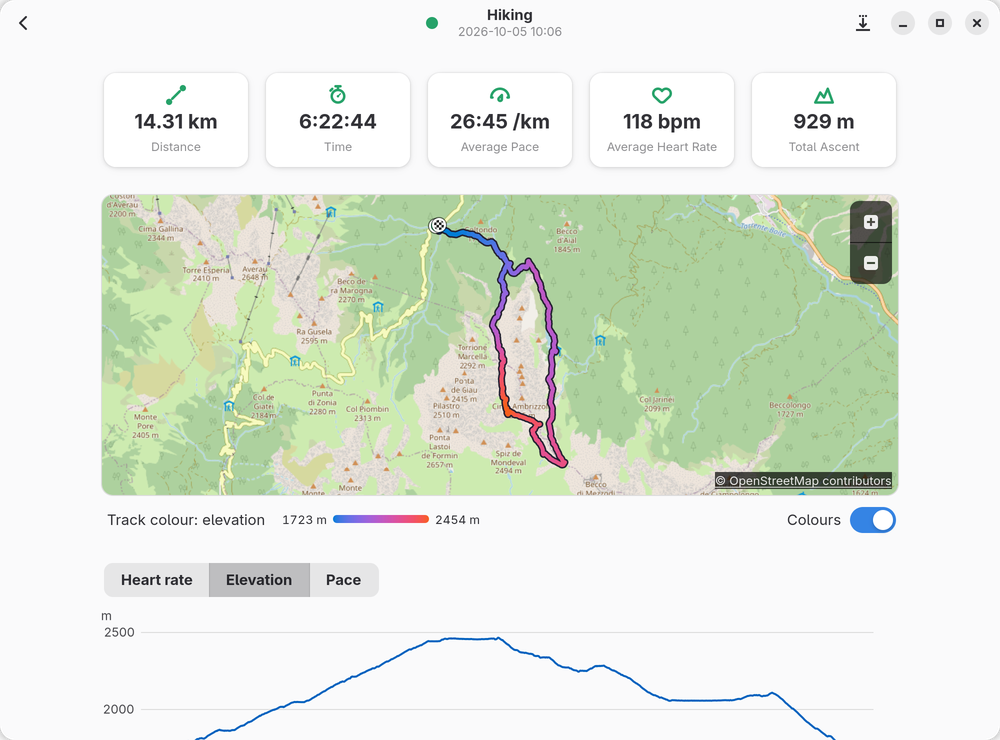
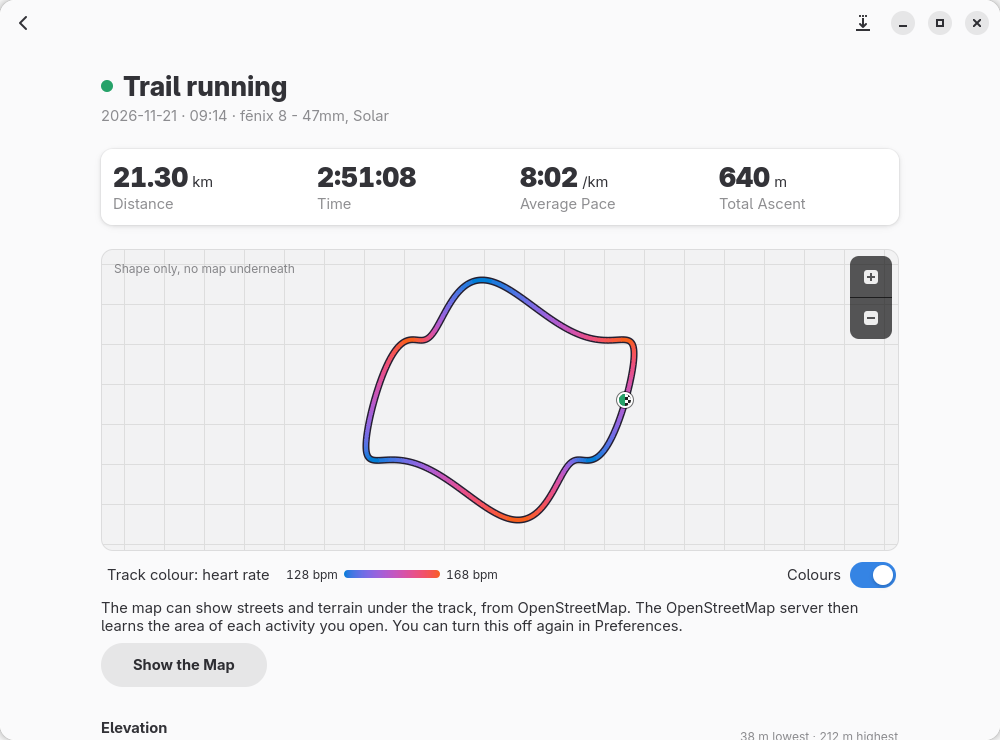
Docs: the activity journal, what is new and the page of an activity in its new look
The guide's chapter Activities is written anew: the card that asks for the activity journal and
what its yes and its no do, the page of what is new and its tiles, Show All and the list, the
page of an activity from top to bottom in the units of its device, the page of an activity whose
file is gone, the switch and Delete in Preferences, and the commands of the journal. The privacy
page says that only the journal reads at each connection and keeps a summary on disk, and that
its lines of connections hold a short digest; the README lists the journal and what is new; the
design of the activity's page has its present order (D22, 22c). The pictures of the Activities
page and of an activity are drawn by the program from made-up activities, the track on a plain
grid.

diff --git a/docs/guide.md b/docs/guide.md
@@ -445,44 +445,101 @@ fēnix 8.
 
 ## Activities
 
-The Activities page and `openexpress activities` list the activities of the connected device,
+The Activities page and `openexpress activities` show the activities of the connected device,
 over MTP or as a USB drive, and of its backups (`Garmin/Backups` in your Documents folder, or
-`--backups DIR`): the newest 30 first, then 30 more with **Show 30 More** (`--limit N`,
-`--all`). Each has its sport, start, time (pauses left out), distance, ascent and where it was
-read: the device, or the backup of a date for one the device no longer has. The page reads the
-files when you open it, never when a device connects. A file the device was still writing
-when it was connected says so (unplug the device and plug it in again, then open the page again),
-as do a damaged file and a file that is no FIT file.
+`--backups DIR`).
 
-A click on an activity (or Enter) opens its page, which reads its file again:
+### The activity journal
 
-- On top: its distance, time, pace or speed, average heart rate and ascent (a workout without a
-  distance: its time, average and maximum heart rate, calories and ascent), each only when the
-  file gives it.
+The first time you open the Activities page, a card asks **Keep an Activity Journal?**
+
+- **Keep a Journal** is your yes: openExpress reads the activity files of the device once
+  (*Reading the activities of this device…*) and keeps a summary and the shape of each on this
+  computer. From then on it adds the new ones whenever the device is opened in the window, after
+  a background sync and after `openexpress sync --apply`. Nothing is sent anywhere. What the
+  journal holds, and what it never holds: [The activity journal](privacy.md#the-activity-journal).
+- **Not Now**, and every visit before you answer: nothing is read or written for a journal, and
+  the page lists the activities as before (below). After **Not Now** a line at the bottom of
+  the page says what a journal shows, with a button to Preferences.
+
+In Preferences → **Activity Journal**, **Keep an Activity Journal** turns it on or off (off keeps
+what it holds) and **Delete the Activity Journal** deletes the journal of every device, after
+asking. **Forget Device** deletes the journal of that device. No journal is kept for a device on
+another Garmin Connect account than the one signed in; the page says so at its bottom. On the
+command line: `openexpress setup --activity-journal on` (or `off`), and `openexpress activities
+journal`, which tells how many activities the journal of the connected device holds, since when,
+its gaps and its size (`--all`: of every device; `--delete --apply` deletes it).
+
+### What is new
+
+With the journal kept, the page shows what is new since the device's connection before this
+one:
+
+- on top how many new activities and since when (*Since yesterday*, a day's name, a date), and
+  when the last sync uploaded to Garmin Connect, if it did after that connection;
+- their distance, time, ascent and number in a card, and, when they climbed or went far enough,
+  a comparison with a landmark (*That is the Eiffel Tower 2.1 times.*);
+- a tile for each of the newest six: the shape of its track in the colour of its sport (or its
+  sport's symbol), its numbers, *Uploaded* or *Not uploaded yet* as this computer's syncs know
+  it, and its day. With nothing new, the newest three under **Latest**;
+- at the bottom how many earlier activities the device holds, and **Show All**, the list below.
+
+The first time, the page says *Activity journal started* and how many activities were read, from
+which date. When older activities left the device before the journal could read them, it says
+that too.
+
+### The list
+
+**Show All**, and the page without a journal, list the activities: the newest 30 first, then 30
+more with **Show 30 More** (`--limit N`, `--all`). Each has its sport, start, time (pauses left
+out), distance, ascent and where it was read: the device, or the backup of a date for one the
+device no longer has. The list reads the files when you open it. A file the device was still
+writing when it was connected says so (unplug the device and plug it in again, then open the page
+again), as do a damaged file and a file that is no FIT file.
+
+### The page of an activity
+
+A tile or a row (a click, or Enter) opens the page of the activity, read from its file:
+
+- On top its kind (with its sub sport, such as *Trail running*), when it started and on which
+  device, and its numbers in a card: distance, time, pace or speed and ascent; a workout without
+  a distance: its time, calories, rest time and ascent. Each only when the file gives it.
 - An activity with positions has a map of its track, its start and finish marked, the track
   coloured by what the chart shows: from blue (low, or a slow pace) to red (high, or a fast
-  pace), with the legend and the **Colours** switch under the map. Streets and terrain come
-  from OpenStreetMap only once you turn them on, with **Show the Map** or in Preferences →
-  **Activity Maps** ([Activity maps from OpenStreetMap](privacy.md#activity-maps-from-openstreetmap)); until then the
-  track is drawn on a plain background. Ctrl + scroll or the buttons on the map zoom it.
-- The chart shows heart rate, elevation and pace or speed, one at a time, and the place of its
-  cursor is marked on the map.
-- The laps (the device's, or each kilometre when the device kept no laps): choose one to see it
+  pace), with the legend and the **Colours** switch under the map. Streets and terrain come from
+  OpenStreetMap only once you turn them on, with **Show the Map** or in Preferences → **Activity
+  Maps** ([Activity maps from OpenStreetMap](privacy.md#activity-maps-from-openstreetmap)); until
+  then the track is drawn on a plain grid. Ctrl + scroll or the buttons on the map zoom it.
+- Its elevation: the lowest and the highest point, and its profile along the distance.
+- Its heart rate: the average and the highest, and the zones as the device worked them out, a bar
+  of the share of each and a row for each with its bounds, time and share. When the whole time
+  was below zone 1, one sentence says so instead.
+- The chart shows heart rate, elevation and pace or speed, one at a time; behind the heart rate,
+  the bands of the zones, each named when it is tall enough. The place of its cursor is marked
+  on the map.
+- The laps: the device's or, when it kept none and the activity is at least two kilometres
+  long, each kilometre (each mile from two miles, on a device set to miles). Choose one to see it
   on the map and on the chart.
-- The heart rate zones as the device worked them out, with the time in each; the training
-  effect and training load.
-- In a row that opens, the details: elapsed and moving time, descent, elevation, best pace,
-  cadence, steps, heart rate, temperature and more, only those the file gives.
+- The training effect and training load, then, in a row that opens, the details: elapsed and
+  moving time, descent, elevation, best pace, cadence, steps, temperature and more, only those
+  the file gives.
 
-The moving time, the average moving pace, the temperatures with their decimal, the rest time of
-a strength workout and the kilometres of an activity without the device's own laps are worked
-out by openExpress from what the device recorded, so they may differ slightly from Garmin
-Connect's; the other values come from the summary the device wrote into its file.
+The page is in the units the device shows: kilometres or miles, metres or feet. The moving time,
+the average moving pace, the temperatures with their decimal, the rest time of a strength workout
+and the kilometres or miles of an activity without the device's own laps are worked out by
+openExpress from what the device recorded, so they may differ slightly from Garmin Connect's; the
+other values come from the summary the device wrote into its file.
 
 <p align="center">
   <img src="screenshots/activity.png" width="800"
-       alt="The page of a hike: its summary, its track on a map coloured by elevation and its elevation profile">
+       alt="The page of a made-up trail run: its kind, date and device, its distance, time, pace and ascent, and its track on a plain grid coloured by heart rate">
 </p>
+
+When the file of an activity is no longer on the device or in its backups, its tile opens what
+the journal kept, and a line on the page says so: its numbers, the shape of its track on a plain
+grid in the colour of its sport, its start marked, its elevation profile, and its heart rate with
+the share of each zone (the journal keeps no bounds of the zones). Without the file there is no
+map, chart, laps, details or GPX.
 
 The export button of an activity, or `openexpress activities export NAME… --apply`, writes it
 as a GPX 1.1 file named `YYYY-MM-DD HH.MM Sport.gpx`: each point with its position, elevation
@@ -496,9 +553,9 @@ manufacturer, product and creation time, its messages and whether it is whole. T
 of a fēnix 8.
 
 <p align="center">
-  <img src="screenshots/activities.png" width="700" alt="Activities">
+  <img src="screenshots/activities.png" width="700"
+       alt="The Activities page of a made-up watch with its journal kept: what is new since the connection before this one, its numbers and a tile for each new activity">
 </p>
-
 ## Device Status
 
 The Device Status page, last in the side panel, tells what needs attention on the connected

diff --git a/docs/design/podglad-aktywnosci.md b/docs/design/podglad-aktywnosci.md
@@ -135,31 +135,37 @@ where the user lives. Without the map, the program sends nothing about activitie
 
 ## 4. The look and the flow
 
-The page, from top to bottom (D22): the header bar (back, a dot of the sport's colour before the
-title, GPX), the tiles with their icons, the map with its legend under it (with positions), the
-chart, the laps (or kilometres), the heart rate zones, the training effect and load, the
-details (closed). Each part only when the file has its data; a section without data is not
-shown, not empty.
+The page, from top to bottom (D22): the header bar (back, GPX), the heading (a dot of the sport's
+colour, the kind with its sub sport, when it started and on which device), the card of its
+numbers, the map with its legend under it (with positions), the elevation, the heart rate zones,
+the chart, the laps (or kilometres), the training effect and load, the details (closed). Each
+part only when the file has its data; a section without data is not shown, not empty. All of it
+is in the units the device shows.
 
 ```
- ← ● Walk · Sat 7 Mar, 10:12                                [GPX]
- ┌ ⌖ 3.25 km ┐ ┌ ◷ 40:00 ┐ ┌ ◔ 12:17 /km ┐ ┌ ♥ 108 bpm ┐ ┌ ˄ 12 m ┐
+ ←                                                          [GPX]
+ ● Trail running
+   2026-11-21 · 09:14 · fēnix 8
+ ┌ 21.30 km      2:51:08      8:02 /km      640 m ┐
  ┌───────────────────────────────────────── [+] ┐
  │ the track coloured by heart rate, a lap      │
  │ chosen: thick, the rest thin and faded  [−]  │
  │                © OpenStreetMap contributors  │
  └──────────────────────────────────────────────┘
  Track colour: heart rate  94 ▬▬▬▬▬ 118 bpm        Colours [on]
+ Elevation                           38 m lowest · 212 m highest
+ ┌ the profile along the distance ┐
+ Heart Rate Zones                   148 bpm average · 176 bpm highest
+   Bounds from the device: % of lactate threshold (… bpm)
+   ▬▬▬▬ the share of each zone in its colour ▬▬▬▬
+   Zone 5  above … bpm                              0:00 · 0%
+   …
+   Below Zone 1  below … bpm                      38:24 · 96%
  [ Heart rate | Elevation | Pace ]          15:00 · 101 bpm
- ┌ the chart, the chosen lap a band behind it ┐
+ ┌ the chart, the bands of the zones named, the chosen lap a band behind it ┐
  Laps
    Lap 1   1.00 km · 12:42 · 110 bpm
    Lap 2   1.00 km · 12:20 · 101 bpm                     ✓
- Heart Rate Zones        Bounds from the device: % of lactate threshold (… bpm)
-   Zone 5  above … bpm                              0:00 · 0%
-   ▬▬▬▬▬▬▬▬▬▬▬▬▬▬▬▬▬▬▬▬▬▬▬▬▬▬▬▬▬▬▬▬▬▬▬▬▬▬▬
-   …
-   Below Zone 1  below … bpm                      38:24 · 96%
  Training Effect
    Aerobic                                  1.6 · Minor benefit
    Anaerobic                                    0.0 · No benefit
@@ -167,25 +173,26 @@ shown, not empty.
  Details ▾
 ```
 
-- A click on a row of the Activities page opens the activity in the same window, a back arrow
-  and a GPX icon in the header bar. The row is activatable (a chevron); its export button stays.
-- The tiles: with a distance, distance, time, average pace and average heart rate. Most
-  activities of some users are workouts without one: their tiles are time, average and maximum
-  heart rate and calories (D11), not four dashes. The total ascent, when there is one, adds a
-  fifth.
-- The map, then the chart with Heart rate / Elevation / Pace and the value at the cursor. The
-  map only for an activity with positions (no empty map for a treadmill, a pool, a trainer or a
-  workout); the switch only lists what the file has; "Pace" is "Speed" for a ride (D12).
+- A click on a row of the list, or on a tile of what is new, opens the activity in the same
+  window, a back arrow and a GPX icon in the header bar.
+- The numbers: with a distance, distance, time, pace or speed and ascent. Most activities of
+  some users are workouts without one: their numbers are time, calories, rest time and ascent
+  (D11), not dashes. Four on a line, two by two when they do not fit.
+- The map, then the elevation and the heart rate, then the chart with Heart rate / Elevation /
+  Pace and the value at the cursor. The map only for an activity with positions (no empty map
+  for a treadmill, a pool, a trainer or a workout); the switch only lists what the file has;
+  "Pace" is "Speed" for a ride (D12).
 - Clicking or dragging on the chart moves a marker on the map, and the arrow keys move the
   cursor too (the chart takes the focus), so that it works without a mouse.
 - The laps: a list of rows that wrap (D7, D20), each with its distance, time, pace and heart
   rate; a click highlights the lap, a second click takes it off.
 
-A workout without positions: the tiles (time, heart rate average and maximum, calories), the
-chart of heart rate, its laps; no map, no space for one.
+A workout without positions: the numbers (time, calories, rest time, ascent), the heart rate
+zones, the chart of heart rate, its laps; no map, no space for one.
 
-In a narrow window (from 360 px) everything is one column; the tiles two by two; the chart keeps
-its height and narrows; the lap rows wrap.
+In a narrow window (from 360 px) everything is one column; the numbers two by two; the chart
+keeps its height and narrows; the lap rows wrap; the words beside a section's title go under it
+when both do not fit.
 
 ## 5. Decisions
 
@@ -662,11 +669,16 @@ its height and narrows; the lap rows wrap.
 - 21c. The map takes the wheel only after a click on it, until the pointer leaves.
   - − A state the user does not see.
 
-### D22: the order of the page — chosen: 22a
+### D22: the order of the page — chosen: 22c (22a before the page's new look)
 
-- 22a. As section 4 shows it (recommended; chosen): what the activity was first (tiles, map,
-  chart, laps), how hard it was after (zones, effect), the rest last and closed.
+- 22a. What the activity was first (tiles, map, chart, laps), how hard it was after (zones,
+  effect), the rest last and closed.
 - 22b. Zones and effect before the map.
+- 22c. As section 4 shows it (chosen with the page's new look, the same for every activity, also
+  for one the activity journal alone keeps): the heading and the card of numbers on top, so
+  that the numbers are seen without scrolling also in a narrow window; then the map, the
+  elevation and the heart rate zones, the activity at a glance; then the chart and the laps,
+  the analysis in time; the training effect and the details last.
 
 ## 6. Texts (English, Polish)
 

diff --git a/README.md b/README.md
@@ -19,7 +19,7 @@
 <p align="center">
   <picture>
     <source media="(prefers-color-scheme: dark)" srcset="docs/screenshots/activity.png">
-    <img alt="openExpress – the page of a hike: its track on a map coloured by elevation, and its elevation profile" src="docs/screenshots/activity-light.png" width="800">
+    <img alt="openExpress – the page of a made-up trail run: its kind, date and device, its distance, time, pace and ascent, and its track on a plain grid coloured by heart rate" src="docs/screenshots/activity-light.png" width="800">
   </picture>
 </p>
 
@@ -54,9 +54,11 @@ was checked on other devices is in the table below. Other Garmin devices that co
 - Installs, updates and removes Connect IQ apps, turns them on or off and puts them back in
   order – also on watches that hide their app folder, such as the fēnix 8.
 - Copies music, podcasts and audiobooks, with playlists.
-- Shows the activities of the device and of its backups, each on its own page: the track on a
-  map coloured by heart rate, pace or elevation (streets from OpenStreetMap once you turn them
-  on), charts, laps, heart rate zones, training effect and details. Exports them as GPX.
+- Shows the activities of the device and of its backups and, with an activity journal kept on
+  this computer after your yes, what is new since the last connection. Each activity has its own
+  page in the units of the device: its numbers, the track on a map coloured by heart rate, pace
+  or elevation (streets from OpenStreetMap once you turn them on), elevation, heart rate zones,
+  charts, laps, training effect and details. Exports them as GPX.
 - Shows what any FIT file holds, and what a sync will write to the device.
 - Shows what needs attention on the device: its crashes, its software updates and what takes
   its space; frees up space taken by older memory dumps and updates it did not install.
@@ -82,7 +84,7 @@ was checked on other devices is in the table below. Other Garmin devices that co
 
 <p align="center">
   <img src="docs/screenshots/activities.png" width="700"
-       alt="The Activities page: activities of a fēnix 8 with their sport, time, distance and ascent">
+       alt="The Activities page of a made-up watch with its journal kept: what is new since the connection before this one, its numbers and a tile for each new activity">
 </p>
 
 <p align="center">
@@ -240,6 +242,8 @@ changes anything only shows its plan until you add `--apply`. Every command:
   the copies of its diagnostic files stay on this computer.
 - Sync never deletes files from the device, and every file written to it is checked.
 - The log never has serial numbers, Unit IDs, tokens or e-mail addresses.
+- The activity journal is kept only after your yes and only on this computer: a summary and the
+  shape of each activity, never a position on Earth. Preferences turn it off or delete it.
 - The map of an activity asks OpenStreetMap for its streets only after you turn them on; the
   server then learns the area of each map you look at and your IP address, never the activity,
   its track or your account.

diff --git a/docs/privacy.md b/docs/privacy.md
@@ -100,8 +100,10 @@ readable only by you, each kind within its limit, the oldest removed first:
 ## Activities
 
 - The **Activities** page and `openexpress activities` read the activity files of the device and
-  of its backups only when you open the page or run the command. What they say (sport, start,
-  time, distance, ascent) is kept in memory while the device is open, never on disk.
+  of its backups when you open the page or run the command. What the list says (sport, start,
+  time, distance, ascent) is kept in memory while the device is open, never on disk. Only the
+  activity journal (below), after your yes, reads the new files at each connection and keeps a
+  summary of each on disk.
 - A GPX file is written only where you save it. It holds the positions, elevation and time of
   the activity and nothing of the device.
 - The dry run of `openexpress sync` downloads the files waiting in Garmin Connect into memory to
@@ -112,8 +114,9 @@ readable only by you, each kind within its limit, the oldest removed first:
 ### The activity journal
 
 Devices keep a limited number of activities and delete the oldest themselves (an Edge 1050
-keeps about 200). So that the Activities page can show your activities after that, openExpress
-can keep an activity journal on this computer, only after your yes: the card on the Activities
+keeps about 200). So that your activities are kept after that, and the Activities page can show
+what is new since the device's last connection, openExpress can keep an activity journal on this
+computer, only after your yes: the card on the Activities
 page, the switch **Keep an Activity Journal** in Preferences, or
 `openexpress setup --activity-journal on`. Until you answer, and after a no, nothing is read or
 written for it.
@@ -129,7 +132,7 @@ written for it.
   shape and size.
 - **What it never holds:** a position on Earth, the device's serial number or Unit ID, a path.
   It also keeps a line for each connection: how many activities the device held, its oldest
-  and its newest.
+  and its newest, and a short digest that tells one connection from the next.
 - **Where:** one file a device, `activities.jsonl` in the device's folder (see
   [What is kept of each device](#what-is-kept-of-each-device)), readable only by you. Like the
   rest of that folder it goes into backups of your home folder.
